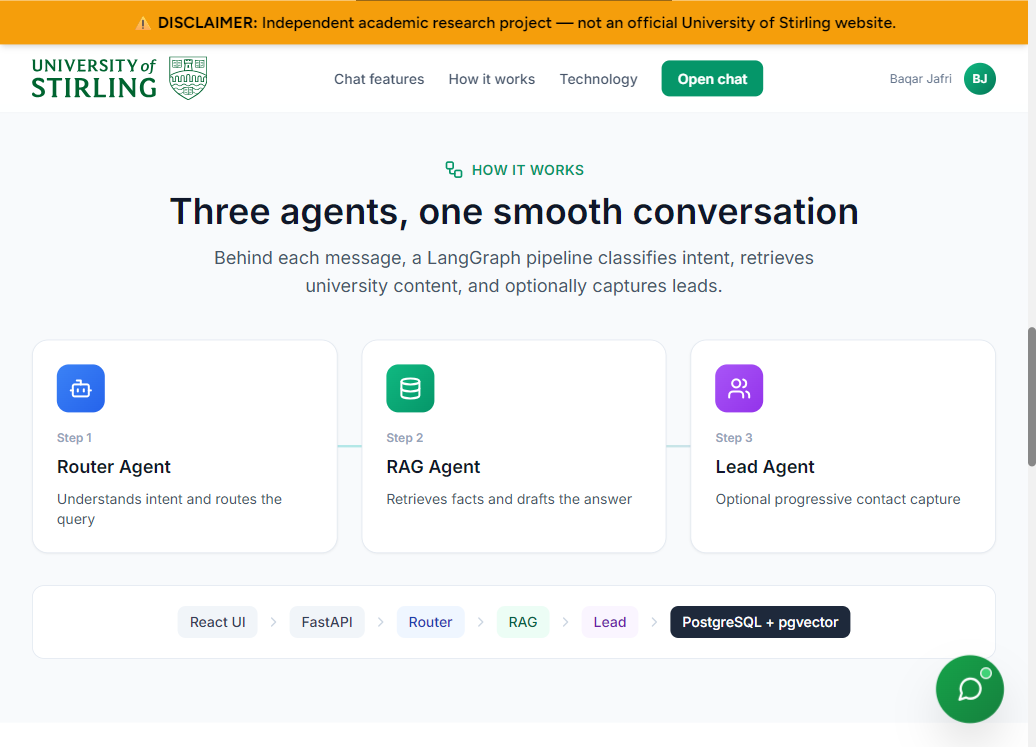
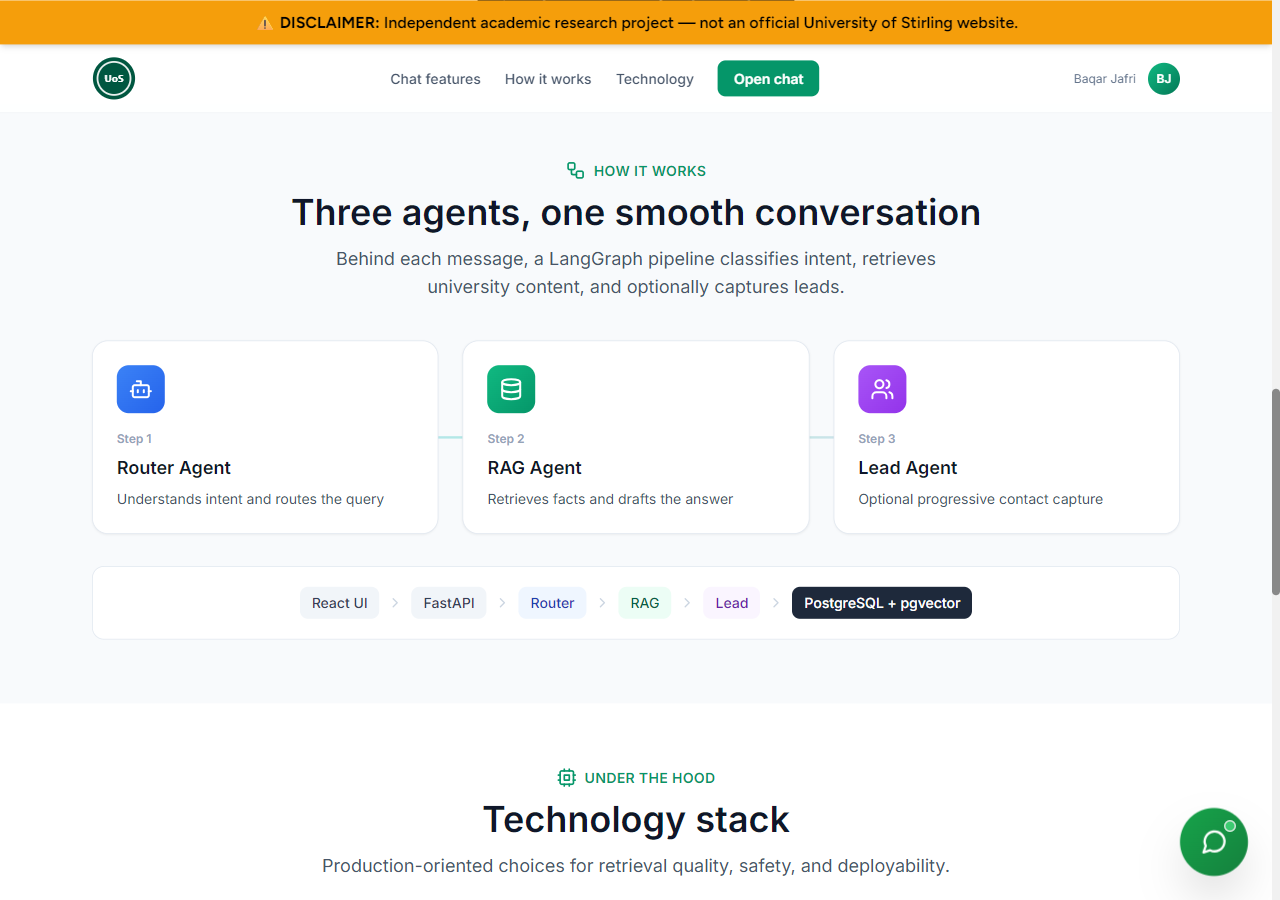
Fix README images and align docs with Claude Sonnet 4

diff --git a/frontend/src/components/ChatWidget.jsx b/frontend/src/components/ChatWidget.jsx
@@ -435,7 +435,7 @@ export default function ChatWidget({ onOpenChange }) {
               {messages.length > 0 && (
                 <div className="relative animate-fadeInLogo">
                   <div className="flex items-center justify-center w-10 h-10 rounded-full bg-white/20 backdrop-blur-sm overflow-hidden">
-                    <img src="/images/stirling round logo.png" alt="Stirling" className="w-10 h-10 object-cover" />
+                    <img src="/images/stirling-logo.svg" alt="Stirling" className="w-10 h-10 object-cover" />
                   </div>
                   <span className="absolute -top-1 -right-1 w-3 h-3 bg-green-300 rounded-full border-2 border-green-600"></span>
                 </div>
@@ -476,7 +476,7 @@ export default function ChatWidget({ onOpenChange }) {
             {messages.length === 0 && (
               <div className="text-center py-8 animate-fadeIn">
                 <div className="inline-flex items-center justify-center w-16 h-16 rounded-full bg-gradient-to-br from-green-100 to-green-200 mb-4 shadow-lg overflow-hidden">
-                  <img src="/images/stirling round logo.png" alt="Stirling" className="w-16 h-16 object-cover" />
+                  <img src="/images/stirling-logo.svg" alt="Stirling" className="w-16 h-16 object-cover" />
                 </div>
                 <h4 className="text-lg font-semibold text-gray-800 mb-2">Welcome to the University of Stirling!</h4>
                 <p className="text-gray-600 text-sm max-w-xs mx-auto leading-relaxed">
@@ -779,7 +779,7 @@ export default function ChatWidget({ onOpenChange }) {
           >
             <div className="relative">
               <div className="w-8 h-8 rounded-full bg-white/20 flex items-center justify-center overflow-hidden">
-                <img src="/images/stirling round logo.png" alt="Stirling" className="w-8 h-8 object-cover" />
+                <img src="/images/stirling-logo.svg" alt="Stirling" className="w-8 h-8 object-cover" />
               </div>
               <span className="absolute -top-0.5 -right-0.5 w-2.5 h-2.5 bg-green-300 rounded-full border-2 border-green-600" />
             </div>

diff --git a/frontend/src/components/StirlingHomepage.jsx b/frontend/src/components/StirlingHomepage.jsx
@@ -81,7 +81,7 @@ const TECH_STACK = [
     category: 'AI & ML',
     icon: Brain,
     items: [
-      { name: 'Claude 3 Haiku', desc: 'Conversational responses' },
+      { name: 'Claude Sonnet 4', desc: 'Conversational responses' },
       { name: 'OpenAI Embeddings', desc: 'Semantic search (1,536D)' },
       { name: 'LangGraph', desc: 'Multi-agent orchestration' },
     ]

diff --git a/scripts/enhanced_rag.py b/scripts/enhanced_rag.py
@@ -105,6 +105,11 @@ class RAGConfig:
         'postgraduate': ['PG', 'masters', 'MSc', 'MA', 'PhD'],
     }
     
+    # LLM (read from .env — must match README and .env.example)
+    LLM_MODEL = os.getenv("LLM_MODEL", "claude-sonnet-4-20250514")
+    LLM_MAX_TOKENS = int(os.getenv("MAX_RESPONSE_TOKENS", "750"))
+    LLM_TEMPERATURE = float(os.getenv("LLM_TEMPERATURE", "0.7"))
+
     # Program code mappings (for query expansion)
     PROGRAM_CODES = {
         'computer science': 'G400',
@@ -517,13 +522,10 @@ class AnswerGenerator:
             student_type, student_level, detected_programs
         )
         
-        # Generate answer with Claude Sonnet 4 (reliable, working model)
-        # Good instruction following and consistent output
-        # Response time ~8-12 seconds
         response = self.client.messages.create(
-            model="claude-sonnet-4-20250514",
-            max_tokens=750,
-            temperature=0.7,  # Natural conversational tone (default is 1.0)
+            model=RAGConfig.LLM_MODEL,
+            max_tokens=RAGConfig.LLM_MAX_TOKENS,
+            temperature=RAGConfig.LLM_TEMPERATURE,
             system=system_prompt,
             messages=[{"role": "user", "content": user_prompt}]
         )

diff --git a/README.md b/README.md
@@ -8,7 +8,7 @@
 [![React](https://img.shields.io/badge/React-18-61DAFB?logo=react&logoColor=black)](https://react.dev/)
 [![FastAPI](https://img.shields.io/badge/FastAPI-0.104+-009688?logo=fastapi&logoColor=white)](https://fastapi.tiangolo.com/)
 [![PostgreSQL](https://img.shields.io/badge/PostgreSQL_16-pgvector-4169E1?logo=postgresql&logoColor=white)](https://github.com/pgvector/pgvector)
-[![Claude](https://img.shields.io/badge/Claude_3_Haiku-Anthropic-D4A574)](https://www.anthropic.com/)
+[![Claude](https://img.shields.io/badge/Claude_Sonnet_4-Anthropic-D4A574)](https://www.anthropic.com/)
 [![Showcase](https://img.shields.io/badge/Live_site-Not_required-success)](docs/DEMO_ARCHIVE.md)
 
 **[Baqar Jafri](https://www.linkedin.com/in/thebaqarjafri/)** · MSc AI · University of Stirling  
@@ -27,12 +27,12 @@
 | | |
 |---|---|
 | **What** | AI assistant that answers questions about studying at Stirling (courses, fees, entry requirements, scholarships, campus life). |
-| **How** | **Hybrid RAG** over 1,206 university web pages → **LangGraph** (router → retrieval → optional lead capture) → **Claude 3 Haiku**. |
+| **How** | **Hybrid RAG** over 1,206 university web pages → **LangGraph** (router → retrieval → optional lead capture) → **Claude Sonnet 4** (`claude-sonnet-4-20250514`). |
 | **UI** | React showcase page + floating chat widget (quick topics, sources, fullscreen, minimize to browse features). |
 | **Why it matters** | Demonstrates production-style LLM engineering: retrieval quality, safety guardrails, session UX, and full deployable stack. |
 
 <p align="center">
-  <img src="docs/images/01-homepage-hero-v2.png" alt="Showcase homepage with hero, statistics, and navigation" width="920"/>
+  <img src="https://raw.githubusercontent.com/baqarjafri/uos-chat/main/docs/images/01-homepage-hero-v2.png" alt="Showcase homepage with hero, statistics, and navigation" width="920"/>
 </p>
 
 ---
@@ -59,14 +59,14 @@ Everything a visitor would see on the showcase site is documented below.
 | Step | What you see | Screenshot |
 |:----:|--------------|------------|
 | 1 | Research disclaimer (once per browser) | — |
-| 2 | Hero + metrics + “Try the live chat” | [Hero](docs/images/01-homepage-hero-v2.png) |
-| 3 | **Six marketed chat features** (scroll the page) | [Features grid](docs/images/02-chat-features-grid.png) |
-| 4 | 3-agent “How it works” section | [Pipeline](docs/images/03-how-it-works.png) |
-| 5 | Open chat → quick topics → RAG answer | [Welcome](docs/images/04-chat-widget-open.png) · [Answer](docs/images/05-chat-rag-response.png) |
-| 6 | Fullscreen mode for longer sessions | [Fullscreen](docs/images/06-chat-fullscreen.png) |
+| 2 | Hero + metrics + “Try the live chat” | [Hero](https://raw.githubusercontent.com/baqarjafri/uos-chat/main/docs/images/01-homepage-hero-v2.png) |
+| 3 | **Six marketed chat features** (scroll the page) | [Features grid](https://raw.githubusercontent.com/baqarjafri/uos-chat/main/docs/images/02-chat-features-grid.png) |
+| 4 | 3-agent “How it works” section | [Pipeline](https://raw.githubusercontent.com/baqarjafri/uos-chat/main/docs/images/03-how-it-works.png) |
+| 5 | Open chat → quick topics → RAG answer | [Welcome](https://raw.githubusercontent.com/baqarjafri/uos-chat/main/docs/images/04-chat-widget-open.png) · [Answer](https://raw.githubusercontent.com/baqarjafri/uos-chat/main/docs/images/05-chat-rag-response.png) |
+| 6 | Fullscreen mode for longer sessions | [Fullscreen](https://raw.githubusercontent.com/baqarjafri/uos-chat/main/docs/images/06-chat-fullscreen.png) |
 
 <p align="center">
-  <img src="docs/images/02-chat-features-grid.png" alt="Six features built into the chat experience — natural conversation, RAG, quick topics, sources, safety, flexible UI" width="920"/>
+  <img src="https://raw.githubusercontent.com/baqarjafri/uos-chat/main/docs/images/02-chat-features-grid.png" alt="Six features built into the chat experience — natural conversation, RAG, quick topics, sources, safety, flexible UI" width="920"/>
   <br/>
   <sub><b>Centerpiece of the showcase:</b> what the chat widget does for prospective students (not just backend jargon).</sub>
 </p>
@@ -93,13 +93,13 @@ These are the capabilities we surface on the main page for any new reviewer.
 ## Chat in action
 
 <p align="center">
-  <img src="docs/images/04-chat-widget-open.png" width="440" alt="Chat welcome screen"/>
+  <img src="https://raw.githubusercontent.com/baqarjafri/uos-chat/main/docs/images/04-chat-widget-open.png" width="440" alt="Chat welcome screen"/>
   &nbsp;&nbsp;
-  <img src="docs/images/05-chat-rag-response.png" width="440" alt="RAG response about entry requirements"/>
+  <img src="https://raw.githubusercontent.com/baqarjafri/uos-chat/main/docs/images/05-chat-rag-response.png" width="440" alt="RAG response about entry requirements"/>
 </p>
 
 <p align="center">
-  <img src="docs/images/06-chat-fullscreen.png" width="920" alt="Fullscreen chat"/>
+  <img src="https://raw.githubusercontent.com/baqarjafri/uos-chat/main/docs/images/06-chat-fullscreen.png" width="920" alt="Fullscreen chat"/>
   <br/>
   <sub>Welcome chips → hybrid retrieval answer → optional fullscreen</sub>
 </p>
@@ -126,12 +126,12 @@ flowchart LR
   end
   A --> B --> R --> G --> L
   G --> D
-  G --> H[Claude 3 Haiku]
+  G --> H[Claude Sonnet 4]
   H --> A
 ```
 
 <p align="center">
-  <img src="docs/images/03-how-it-works.png" width="920" alt="Router, RAG, and Lead agents on the showcase page"/>
+  <img src="https://raw.githubusercontent.com/baqarjafri/uos-chat/main/docs/images/03-how-it-works.png" width="920" alt="Router, RAG, and Lead agents on the showcase page"/>
 </p>
 
 | Agent | Role |
@@ -147,14 +147,14 @@ flowchart LR
 ## Technology stack
 
 <p align="center">
-  <img src="docs/images/08-tech-stack.png" width="920" alt="Technology stack"/>
+  <img src="https://raw.githubusercontent.com/baqarjafri/uos-chat/main/docs/images/08-tech-stack.png" width="920" alt="Technology stack"/>
 </p>
 
 | Layer | Stack |
 |-------|--------|
 | Frontend | React 18, Vite, TailwindCSS, Lucide, Axios |
 | Backend | FastAPI, Pydantic, Uvicorn |
-| AI | Claude 3 Haiku, OpenAI `text-embedding-3-small`, LangGraph |
+| AI | Claude Sonnet 4 (`claude-sonnet-4-20250514`), OpenAI `text-embedding-3-small`, LangGraph |
 | Data | PostgreSQL 16, pgvector, FireCrawl |
 | Ops (reference) | Docker, Railway configs in `backend/` & `frontend/` |
 
@@ -182,7 +182,7 @@ flowchart LR
 ```bash
 git clone https://github.com/baqarjafri/uos-chat.git
 cd uos-chat
-cp .env.example .env   # add API keys
+cp .env.example .env   # add API keys (LLM_MODEL defaults to Claude Sonnet 4)
 
 docker-compose up -d   # Postgres + pgvector :5433
 

diff --git a/docs/images/README.md b/docs/images/README.md
@@ -14,4 +14,8 @@ Production-quality captures for the GitHub README. **No live website required** 
 | `08-tech-stack.png` | Technology stack grid |
 | `09-core-capabilities.png` | Research capabilities (legacy layout) |
 
-Captured May 2026 from production and local preview builds.
+Captured May 2026 from production (chat flows) and local preview (`npm run dev` on port 3000).
+
+**README tip:** GitHub renders `<img src="docs/images/…">` unreliably; the root README uses `raw.githubusercontent.com` URLs instead.
+
+**Regenerate hero / features / stack:** open `http://localhost:3000`, accept the disclaimer, then screenshot `#chat-features`, `#how-it-works`, and `#technology`.

diff --git a/frontend/public/images/README.md b/frontend/public/images/README.md
@@ -1,0 +1,9 @@
+# Static assets (Vite `public/`)
+
+Served at `/images/…` when you run the frontend.
+
+| File | Used by |
+|------|---------|
+| `stirling-logo.svg` | Homepage header/footer and chat widget avatar |
+
+Replace with official University branding only if you have permission to use it.
